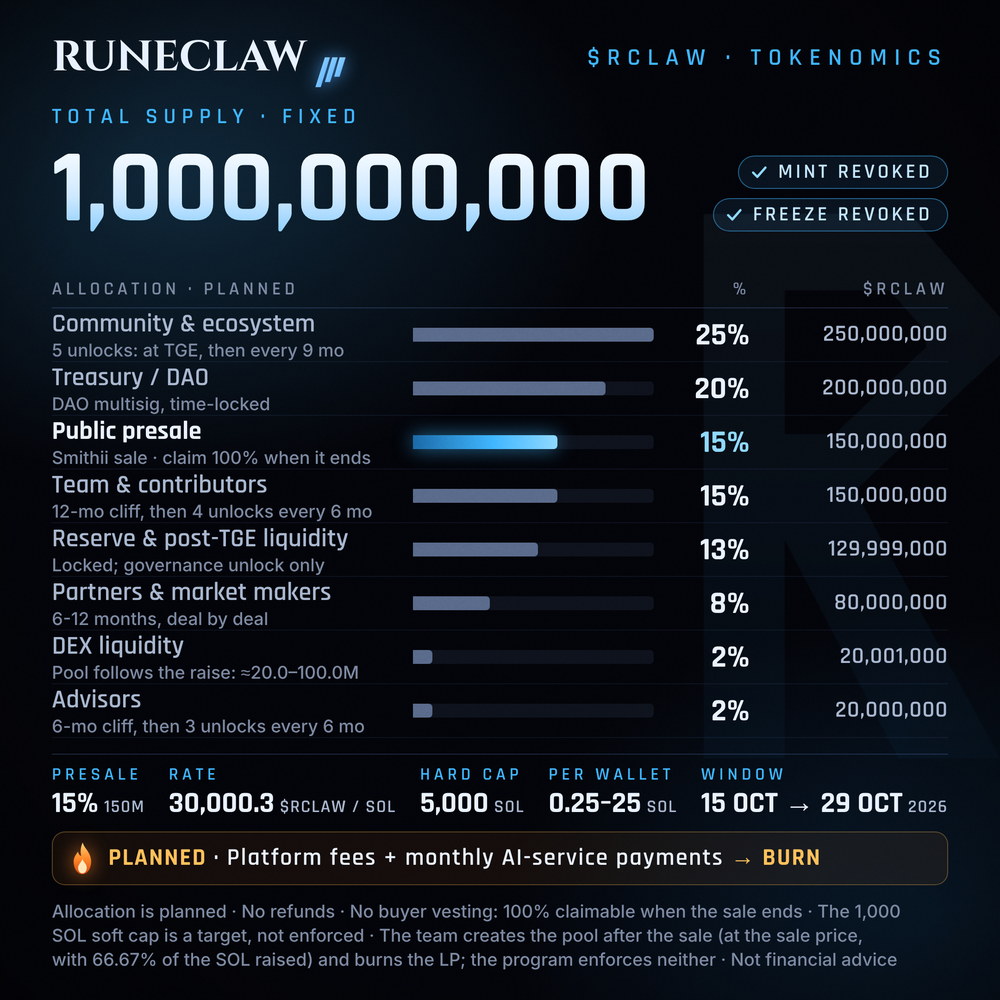
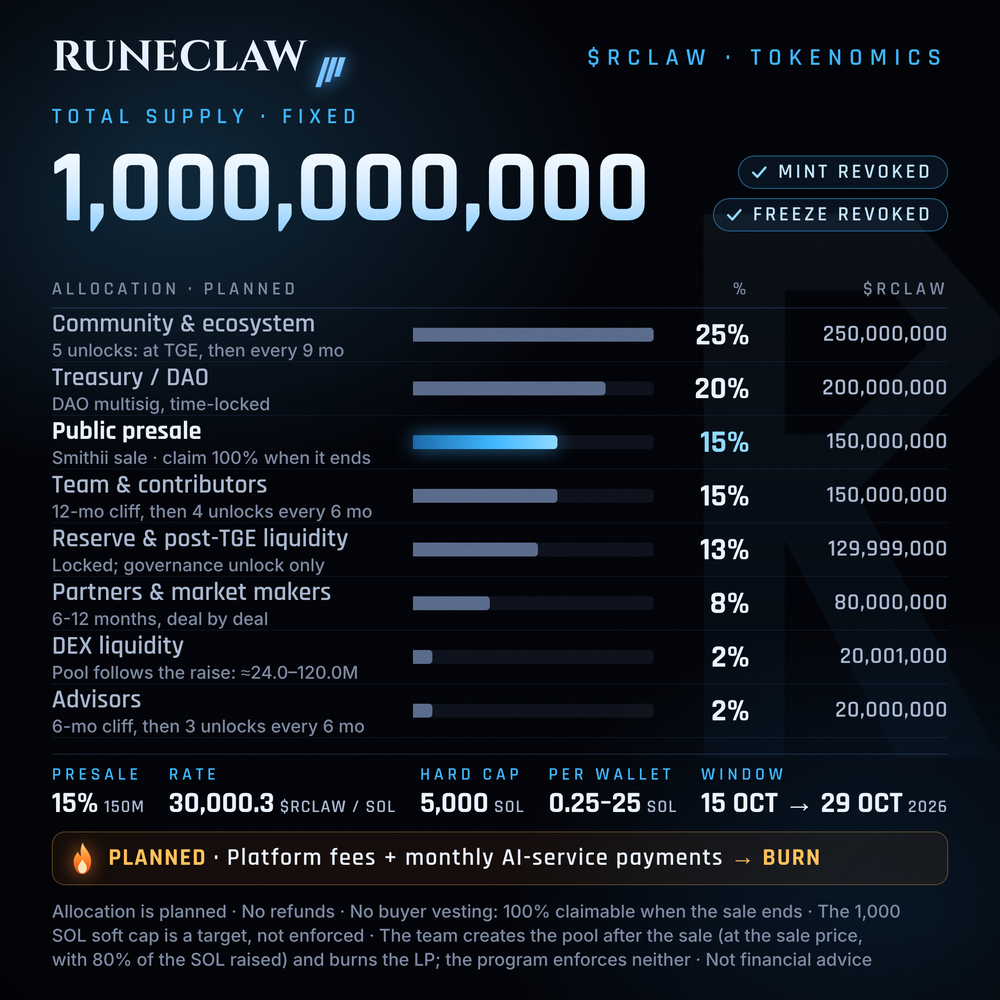
Smithii sale: 80% of the SOL raised goes into the pool (was 66.67%)
The operator's decision of 2026-10-10. Nothing else about the pool changes:
the team creates it after the sale, at the sale price, and burns the LP;
the program enforces neither.

- smithii.config.json: liquidity.intendedPercentOfGrossRaise 80, with a
  note on what it leaves: 17.5% of the gross raise after Smithii's 2.5%,
  175 SOL at the soft cap and 875 SOL at the hard cap.
- Pool at the sale price: 800 SOL + 24,000,240 RCLAW at the soft cap,
  4,000 SOL + 120,001,200 RCLAW at the hard cap. The sale wallet must hold
  270,002,700.027 RCLAW before Create; the multisig's reserve remainder
  falls to 29,997,299.972. The expected figures in the tests were
  recomputed outside the library.
- venue_parity: the pool share is no longer a shared term. Genesis encodes
  66.67% at create and prices its LP token side against it, so the
  difference is declared, with the direction it must hold in.
- Roadmap, GitBook, runbook and the artwork README state the new share and
  sizes; the tokenomics cards (1500x750 and 1000x1000) are redrawn, and
  their embedded figures match the config again.

Claude-Session: https://claude.ai/code/session_01QSCkzw7ETdMXd1B5gcxZXB

diff --git a/docs/TOKEN_ROADMAP.md b/docs/TOKEN_ROADMAP.md
@@ -194,8 +194,8 @@ tune before launch, not a fixed parameter:
 > **Venue note (2026-10-08).** The pool-sizing argument below — the F-25 decision — was forced
 > by Metaplex Genesis, whose LP token side is fixed when the bucket is created. Smithii's program
 > never creates the pool: the operator does, after the raise is known, so that trap does not
-> exist on the sale actually being run. Opening at the sale price the pool needs about **20.0M
-> RCLAW at the soft cap and 100.0M at the hard cap** (`npm run presale:smithii-plan`). The
+> exist on the sale actually being run. Opening at the sale price the pool needs about **24.0M
+> RCLAW at the soft cap and 120.0M at the hard cap** (`npm run presale:smithii-plan`). The
 > 2.0001% / 12.9999% table above is still the **ratified** one; whether it returns to 10% / 5%
 > is open (§13).
 
@@ -237,8 +237,8 @@ the presale price unless `--accept-below-presale` is passed, and
 `config.disclosures.softCapNotEnforced` says so publicly.
 
 **Circulating supply at TGE (approx):** the whole presale — buyers claim 100% when the sale
-ends, up to ≈ 150.0M at the hard cap — plus the pool's RCLAW (≈ 20.0M at the soft cap, ≈ 100.0M
-at the hard cap) plus any airdrop TGE tranche: about **a quarter of supply at the hard cap**,
+ends, up to ≈ 150.0M at the hard cap — plus the pool's RCLAW (≈ 24.0M at the soft cap, ≈ 120.0M
+at the hard cap) plus any airdrop TGE tranche: about **27% of supply at the hard cap**,
 against the ≈ 7% the 33%-unlock design gave. Team, treasury, advisors and reserve are locked at
 TGE **only once the team has created those locks**, which is not done (§11); until then one
 wallet holds them. A full **emissions / circulating-supply-over-time chart** should be
@@ -306,11 +306,12 @@ a decision to publish before the sale (§13).
 > min-raise extension, and the chosen mechanism must be settled and disclosed *before* the
 > sale opens — not assumed. Tracked in §13.
 
-**Liquidity split of raised SOL:** **66.67% of the gross raise → the DEX pool**, which the
+**Liquidity split of raised SOL:** **80% of the gross raise → the DEX pool** (the operator's
+decision of 2026-10-10; it was 66.67%), which the
 operator creates after the sale (the Smithii program never does); the remainder goes to audit,
-operations and treasury. Smithii's 2.5% comes out of that remainder, so it is **30.83% of gross,
-not 33.33%** (975 SOL of the 1,000 SOL soft cap reaches the operator; 308.3 SOL is left after
-the pool). Exact split ratified in §13.
+operations and treasury. Smithii's 2.5% comes out of that remainder, so it is **17.50% of gross,
+not 20%** (975 SOL of the 1,000 SOL soft cap reaches the operator; 175 SOL is left after
+the pool, 875 SOL at the hard cap). Exact split ratified in §13.
 
 > **Encoded on-chain and publicly verifiable (2026-07-26).** `presale:create` attaches a
 > `SendQuoteTokenPercentage` end behavior to the presale bucket, naming the liquidity bucket
@@ -400,7 +401,7 @@ wallet whitelist, refund, or create or lock liquidity**, and it never reads the 
 terms in §4, §5, §7 and §10 are the Smithii sale's terms.
 
 What staying on Smithii costs, against the design this document used to prefer: buyers hold
-100% at the end of the sale (about a quarter of supply tradeable at TGE at the hard cap, not
+100% at the end of the sale (about 27% of supply tradeable at TGE at the hard cap, not
 about 7%); the pool and the LP burn are the operator's actions, verifiable afterwards but not
 enforced; buyers' SOL reaches the operator at every purchase; and the program is upgradeable by
 Smithii. What it buys: a program that was audited (2024, for Smithii), no integration code to
@@ -428,8 +429,8 @@ experiment) — **never** the utility-token TGE.
 - **Pool:** seed a `$RCLAW`/SOL pool on **Raydium** (or **Orca**), routable by **Jupiter** so
   every Solana aggregator picks it up.
 - **Depth (the Smithii sale):** the **operator creates the pool after the sale**, when the raise
-  is known, at the sale price and with 66.67% of the gross raise: about **20.0M `$RCLAW` against
-  666.7 SOL at the soft cap, about 100.0M against 3,333.5 SOL at the hard cap**
+  is known, at the sale price and with 80% of the gross raise: about **24.0M `$RCLAW` against
+  800 SOL at the soft cap, about 120.0M against 4,000 SOL at the hard cap**
   (`npm run presale:smithii-plan` derives both). Never below the sale price — a pool that opens
   under what buyers paid is the one outcome §4 calls unrecoverable, and because the pool is
   created after the raise, the operator can honour parity at any raise. The 20,001,000 sizing
@@ -908,7 +909,8 @@ Everything below is a **proposed default that the team must ratify** — nothing
   Reasoning and the two-failure-mode asymmetry in §4; the arithmetic is pinned in
   `token/presale/lp_parity.test.mjs` and the number is enforced at trigger time.
 - **Soft/hard caps, min/max contribution, round durations, presale price** (§5).
-- **Liquidity split of raised SOL** (**66.67%**, ratified 2026-07-26 — see below). ~~LP lock vs burn~~ — **settled for the Genesis
+- **Liquidity split of raised SOL** (**80%**, the operator's decision of 2026-10-10; 66.67% was
+  ratified 2026-07-26 — see below). ~~LP lock vs burn~~ — **settled for the Genesis
   path only:** permanent never-claim lock. **On the Smithii sale it is a burn by the operator**
   (§7), which nothing enforces.
 - ~~**Staking lock-up period**~~ — **settled:** **30 days**, ratified 2026-07-26.
@@ -931,8 +933,9 @@ Everything below is a **proposed default that the team must ratify** — nothing
 
 - **LP sizing and the allocation table.** The ratified 2.0001% / 12.9999% table exists because
   Genesis fixes the LP token side at bucket creation (§4). On Smithii the pool is created after
-  the raise, and opening at the sale price it needs about 20.0M RCLAW at the soft cap and
-  100.0M at the hard cap — the old 10% / 5% shape. Decide which table is true, then make this
+  the raise, and opening at the sale price it needs about 24.0M RCLAW at the soft cap and
+  120.0M at the hard cap: at the hard cap about 100.0M of that comes from the reserve, more than
+  its 80.0M post-TGE-liquidity earmark, leaving about 30.0M in it. Decide which table is true, then make this
   document, the GitBook and `metaplex-genesis.config.json` agree. Until then the GitBook and
   this document both carry the ratified 2.0001% / 12.9999%.
 - **What the operator does if the raise ends below the soft cap.** The program will not decide
@@ -942,7 +945,7 @@ Everything below is a **proposed default that the team must ratify** — nothing
   time-window "early" phase would be open to everyone, costs 0.2 SOL instead of 0.1 (per the
   audit) and buys nothing the public phase does not; the public phase is the 336 h of 15–29 Oct 2026.
 - **Smithii's 2.5% in the budget.** At the hard cap it is 125 SOL, so "remainder to audit,
-  operations and treasury" is 30.83% of the gross raise, not 33.33% (§5).
+  operations and treasury" is 17.50% of the gross raise, not 20% (§5).
 - **Where unsold tokens go.** They come back to the signing wallet; the config states the
   intent to move them to the reserve allocation and publish that transaction. Ratify it.
 

diff --git a/token/presale/RUNBOOK.md b/token/presale/RUNBOOK.md
@@ -20,11 +20,11 @@ and not used for this sale. Full rationale and the venue comparison are in
 | `locks.plan.json` | Smithii Token Vesting | The three time locks (community, team, advisors) as staircases of at most five unlocks; read by `locks_lib.mjs`, `locks_plan.mjs` and the tests |
 
 The two share the **economics** — 150M presale allocation, **1,000 SOL soft / 5,000 SOL hard
-cap**, 0.25–25 SOL per wallet, a 336 h public phase (15 → 29 Oct 2026), **66.67% of the raise → Raydium
-liquidity**. They differ in what the **program enforces**, and the differences are declared,
-not accidental: Genesis vests buyers (33% at TGE then linear over 2 months), keeps a wallet
-whitelist, and creates the pool with a never-claim LP lock; the Smithii program does none of
-those (no vesting, no wallet list, the operator creates the pool and burns the LP).
+cap**, 0.25–25 SOL per wallet, a 336 h public phase (15 → 29 Oct 2026). They differ in what
+the **program enforces**, and the differences are declared, not accidental: Genesis vests buyers
+(33% at TGE then linear over 2 months), keeps a wallet whitelist, and creates the pool with
+66.67% of the raise and a never-claim LP lock; the Smithii program does none of those (no
+vesting, no wallet list; the operator creates the pool with **80% of the raise** and burns the LP).
 `venue_parity.test.mjs` checks the shared terms agree, every difference is declared with a
 reason, and the published docs state the chosen venue's terms.
 
@@ -250,7 +250,7 @@ authority, the audit's scope, and the disclosures.
 - The signing wallet receives the SOL as buyers buy. Do not spend it until the rule for a raise
   below the soft cap (roadmap §13) is decided and published.
 - When the sale ends or the hard cap is reached, buyers can claim. **Create the pool in that
-  same window**, at the sale price, with 66.67% of the gross raise; then **burn the LP tokens**
+  same window**, at the sale price, with 80% of the gross raise; then **burn the LP tokens**
   and publish the pool address and the burn transaction.
 - Call `withdraw` **once** to recover unsold tokens (a second call is refused), and move them
   to the reserve allocation as the config states.

diff --git a/docs/gitbook/token-roadmap.md b/docs/gitbook/token-roadmap.md
@@ -103,7 +103,7 @@ with approvals, not a time lock. **Presale buyers are not vested:** they can cla
 everything the moment the sale ends.
 
 The pool is created by the team after the raise, so it is sized then. Opening at the sale price
-it needs about **20.0M RCLAW at the soft cap and 100.0M at the hard cap**. Whether the table
+it needs about **24.0M RCLAW at the soft cap and 120.0M at the hard cap**. Whether the table
 above returns to a 10% / 5% liquidity / reserve split is an open decision (roadmap §13).
 
 ## Presale (proposed)
@@ -121,7 +121,7 @@ actually does — including what it does **not** do.
 | Buyer vesting | **None.** Every buyer can claim 100% of what they bought when the sale ends |
 | Refund | **None.** Each purchase is paid straight to the team's wallet; nothing is held back to return |
 | Proceeds | Paid directly to the team's launch wallet at each purchase, less Smithii's 2.5%. The plan is a hardware-backed wallet, with proceeds moved to the multisig after the sale |
-| Liquidity | **The team creates the pool** on Raydium after the sale — 66.67% of the gross raise, opened at the sale price — and burns the LP tokens, publishing both transactions. The program does neither |
+| Liquidity | **The team creates the pool** on Raydium after the sale — 80% of the gross raise, opened at the sale price — and burns the LP tokens, publishing both transactions. The program does neither |
 | Unsold tokens | Come back to the team's wallet in one `withdraw` call; the team intends to move them to the reserve allocation and publish that transaction |
 | Program | Smithii's, **upgradeable**: its upgrade authority `CyTc…7KTC` is an off-curve address (program-controlled; who can sign for it is not visible). CoinFabrik's 2024 audit covers Smithii's program, not RUNECLAW |
 

diff --git a/docs/assets/presale/README.md b/docs/assets/presale/README.md
@@ -30,7 +30,7 @@ The 1500x750 and the 1000x1000 are the same content in two shapes and carry the 
 | The eight allocation rows (percent and tokens) | `docs/TOKEN_ROADMAP.md` section 4, the ratified table |
 | The note under Community, Team and Advisors ("5 unlocks: at TGE, then every 9 mo", ...) | `token/presale/locks.plan.json`, worded by `locks_lib.mjs` (`shortNote`) |
 | Presale 15% / 150M, the rate, 5,000 SOL hard cap, 0.25-25 SOL per wallet, the window 15 Oct → 29 Oct 2026 | `token/presale/smithii.config.json`. The rate is the **stored** price: 30,000.3 per SOL (33,333 whole lamports per token), not the 30,000 the form's Sale Rate line shows, because Smithii stores whole lamports (`sale._priceNote`). |
-| "Pool follows the raise: ≈20.0-100.0M" and "66.67% of the SOL raised" | `smithii.config.json`, `liquidity`. It is the operator's promise; the program enforces neither. |
+| "Pool follows the raise: ≈24.0-120.0M" and "80% of the SOL raised" | `smithii.config.json`, `liquidity`. It is the operator's promise; the program enforces neither. |
 | The 1,000 SOL soft cap "is a target, not enforced" | the same file: the program stores a soft cap and never reads it |
 | The loop: platform fees and monthly AI-service payments feed a burn | the operator's stated intent, drawn as **PLANNED**. Nothing in the code collects fees or monthly payments yet, and no split between burn and anything else is set anywhere, so the image shows none. |
 
